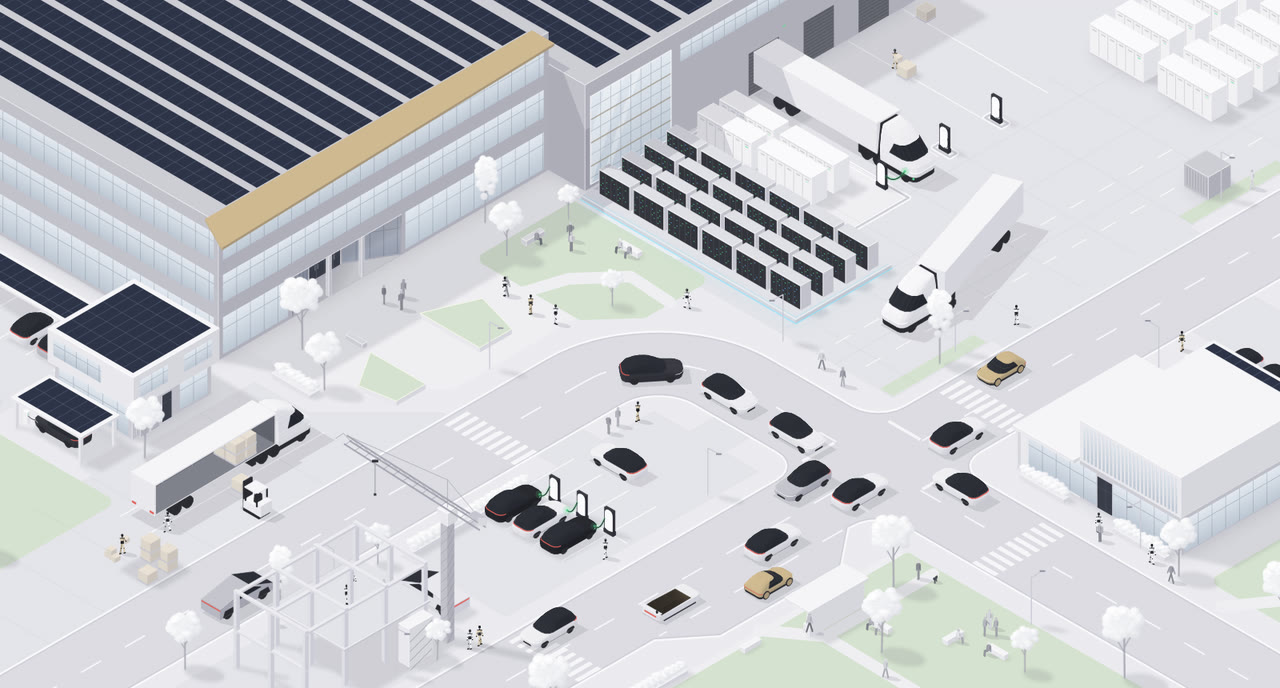
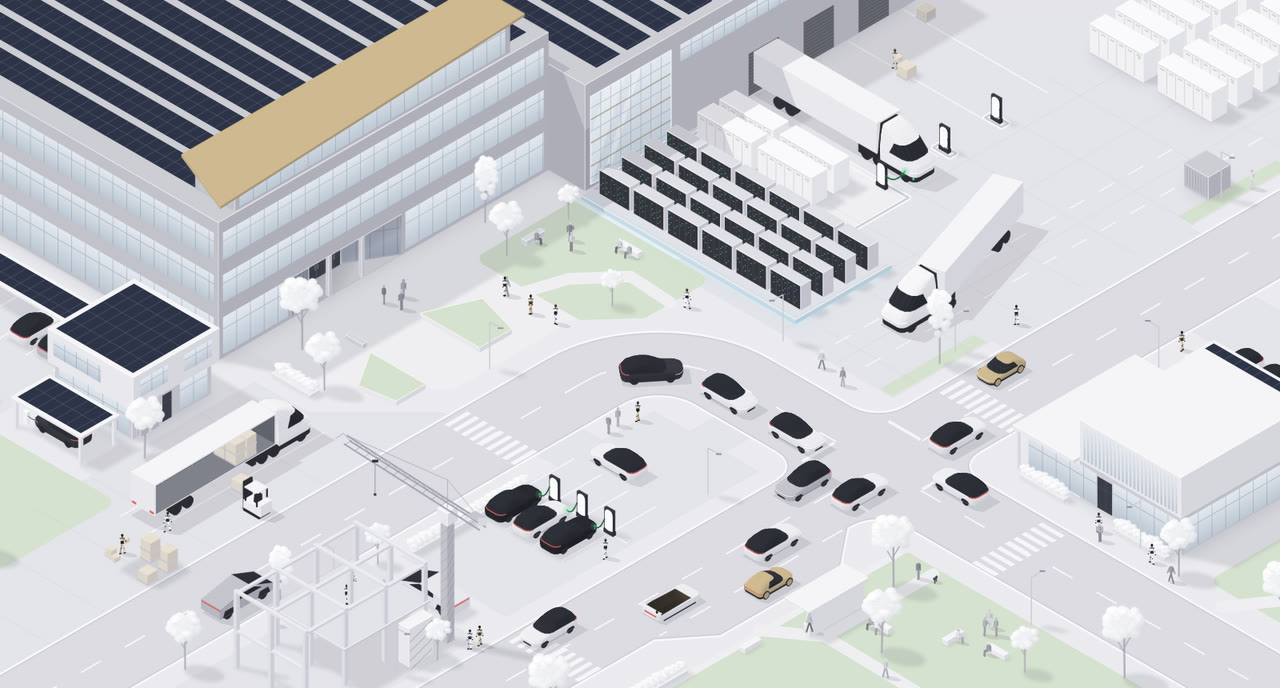
Give the lettering room, and put a rooftop bar under the bronze roof
Lettering: the letters nearly filled the 1.4 m panel band between the
window ribbons. With `isBranded` on, that band now widens along the
lettered stretch (u 5 to 24.5, on the mullion grid so the mullions still
line up): the ribbons above and below it step back 0.4 m there, giving a
2.2 m band with about half a metre clear above and below the letters. With
the lettering off, the facade's bands are as before.

Rooftop bar: at Giga Berlin the bronze overhang is the roof of a glass
rooftop bar. A glass pavilion now stands along the front edge of the
factory's roof (3.4 m tall, nearly flush with the facade, lit at night; it
casts no shadow on the ground), and the bronze roof sits on top of it,
overhanging the front and flaring to its sharp point at the plaza's corner
(world/plaza.ts).

Docs: docs/engine.md and the README's features list describe the rooftop
bar. README previews re-recorded.

Checks: typecheck, tests, check:components and the build pass. check:sim:
OK.

Claude-Session: https://claude.ai/code/session_012ySDiovrfsgi18gJzxxVM6

Changed region(s): [[0.125, 0.0, 0.4375, 0.3663]]

diff --git a/src/engine/world/plaza.ts b/src/engine/world/plaza.ts
@@ -1,17 +1,20 @@
-// The factory's front, after Giga Berlin's: a thin bronze roof canopy along the top of the facade,
-// flaring out to a sharp point at the plaza's corner, and two angular planters on the plaza with LED strips along
-// their top edges that glow warm at night. The planters stand clear of every walkway (and the walkers' offset), the
+// The factory's front, after Giga Berlin's: a glass rooftop bar along the front edge of the roof, under a thin bronze
+// roof that overhangs the facade and flares out to a sharp point at the plaza's corner, and two angular planters on
+// the plaza with LED strips along their top edges that glow warm at night. The planters stand clear of every walkway (and the walkers' offset), the
 // chatting group and the bench (walkways.ts, streetLife.ts).
 
 import { C } from '../core';
 import type { R } from '../draw';
+import { windowsX, windowsY } from '../details';
 import { MeshBuilder, drawMesh } from '../mesh';
 import type { Palette } from '../palette';
-import { FnItem } from '../statics';
+import { BoxItem, FnItem, type Static } from '../statics';
 
-/** the canopy's plan, counter-clockwise (x, y): over the roof's edge, out past the facade (x 26), widening to a point */
-const CANOPY = [[25.2, 37], [27.6, 37], [28.8, 74.4], [25.2, 72.6]];
-const CANOPY_Z = [13.0, 13.25];
+/** the rooftop bar on the factory's roof (z 13), set back a little from its facade (x 26): [x0, y0, x1, y1, height] */
+const BAR = [21.5, 40, 25.8, 70, 3.4];
+/** the bar's roof, counter-clockwise (x, y): over the whole bar, out past the facade, widening to a point at the corner */
+const CANOPY = [[21.2, 39.2], [26.6, 39.2], [28.2, 74], [21.2, 71.2]];
+const CANOPY_Z = [16.4, 16.65];
 /** the planters' plans, counter-clockwise (x, y), and their height */
 const PLANTERS = [
   [[33.0, 57.0], [35.0, 52.2], [39.5, 53.5], [39.5, 57.0]],
@@ -28,12 +31,19 @@ function prism(plan: number[][], z0: number, z1: number) {
   return m.build();
 }
 
-/** The canopy and the planters, as static items. */
-export function factoryFront(pal: Palette) {
+/** The rooftop bar and its roof, and the planters, as static items. */
+export function factoryFront(pal: Palette, edge: string) {
   const canopy = prism(CANOPY, CANOPY_Z[0], CANOPY_Z[1]);
   const [cx0, cy0, cx1, cy1] = bounds(CANOPY);
-  const items = [
-    // bronze all over, as at Giga Berlin
+  const [bx0, by0, bx1, by1, bh] = BAR;
+  // glass all round, lit at night; it stands on the roof, so it casts no shadow on the ground
+  const glass = [{ top: 0.15, bot: bh - 0.15, every: 1.5 }];
+  const items: Static[] = [
+    new BoxItem(bx0, by0, 13, bx1, by1, 13 + bh, pal.factory, { edge }, (r) => {
+      windowsX(r, pal, bx1, by0, by1, 13 + bh, glass);
+      windowsY(r, pal, bx0, bx1, by1, 13 + bh, glass);
+    }, false),
+    // the roof: bronze all over, as at Giga Berlin
     new FnItem(cx0, cy0, CANOPY_Z[0], cx1, cy1, CANOPY_Z[1], (r) => drawMesh(r, canopy, 0, 0, 0, 1, 0, [pal.gold, pal.gold])).still(),
   ];
   for (const plan of PLANTERS) {

diff --git a/src/engine/world/buildings.ts b/src/engine/world/buildings.ts
@@ -25,11 +25,18 @@ import { carMats } from '../palette';
  */
 export function factory(env: Env, edge: string, yard: TruckYard, branding: Branding) {
   const { pal, statics: S } = env;
-  const factoryBandsX: Band[] = [
-    { top: 1.2, bot: 3.8, every: 1.5 },
-    { top: 5.2, bot: 7.8, every: 1.5 },
-    // the ground floor, either side of the recessed entrance (entrance.ts)
-    { top: 9.2, bot: 12.7, every: 1.5, spans: [[0.5, 7.6], [20.4, 35.5]] },
+  // the ground floor, either side of the recessed entrance (entrance.ts)
+  const groundFloor: Band = { top: 9.2, bot: 12.7, every: 1.5, spans: [[0.5, 7.6], [20.4, 35.5]] };
+  const factoryBandsX: Band[] = [{ top: 1.2, bot: 3.8, every: 1.5 }, { top: 5.2, bot: 7.8, every: 1.5 }, groundFloor];
+  // with the lettering on, the panel band it sits on widens along the lettered stretch (u 5 to 24.5, on the mullion
+  // grid): the window ribbons above and below it step back 0.4 m there, so the letters have room above and below
+  const sides = [[0.5, 5], [24.5, 35.5]], lettered = [[5, 24.5]];
+  const letteredBandsX: Band[] = [
+    { top: 1.2, bot: 3.8, every: 1.5, spans: sides },
+    { top: 1.2, bot: 3.4, every: 1.5, spans: lettered },
+    { top: 5.2, bot: 7.8, every: 1.5, spans: sides },
+    { top: 5.6, bot: 7.8, every: 1.5, spans: lettered },
+    groundFloor,
   ];
   const factoryBandsY: Band[] = [
     { top: 1.2, bot: 3.8, every: 1.5, spans: [[0.5, 65.5]] },
@@ -38,15 +45,15 @@ export function factory(env: Env, edge: string, yard: TruckYard, branding: Brand
   ];
   S.push(
     new BoxItem(-40, 36, 0, 26, 72, 13, pal.factory, { edge }, (r) => {
-      windowsX(r, pal, 26, 36, 72, 13, factoryBandsX);
+      windowsX(r, pal, 26, 36, 72, 13, branding.isOn ? letteredBandsX : factoryBandsX);
       windowsY(r, pal, -40, 26, 72, 13, factoryBandsY);
       solarRoof(r, pal, -40, 36, 26, 72, 13, 1.2, 2.6);
       drawEntrance(r, pal, edge);
-      // the opt-in lettering on the panel band over the ribbon window above the entrance (u 8 to 20 on this face)
+      // the opt-in lettering, centred on the entrance (u 8 to 20 on this face) and in its widened panel band (3.4 to 5.6)
       if (branding.isOn) onFaceX(r, 26, 36, 72, 13, (ctx) => drawLettering(r, pal, ctx, 14, 3.9));
     }),
   );
-  S.push(...entrancePillars(pal, edge), ...factoryFront(pal));
+  S.push(...entrancePillars(pal, edge), ...factoryFront(pal, edge));
 
   // dock wing with roll-up doors and a tall atrium window above the compute platform
   const dockDoors = [...yard.docks.map((d) => d.y), yard.bay.y];

diff --git a/docs/engine.md b/docs/engine.md
@@ -35,14 +35,14 @@ Every file stays under 300 lines; split by responsibility when one grows past th
 
 - `world/` the layout. `world.ts` builds it all in a fixed order (everything draws from one seeded random stream, so
   moving a call changes the scene): `roads.ts` zones and through traffic, `buildings.ts` the factory (with
-  `plaza.ts`, its Giga Berlin-style front: the bronze roof canopy and the plaza's LED-edged planters, and
-  `lettering.ts`, its opt-in lettering), dock wing, pavilion, home and construction site, `streetLife.ts` trees,
-  lamps, benches, the pocket park and people standing about, `walkways.ts` the walkway graph, `groundPlan.ts` the
-  cached ground layer, `chargers.ts` the yard's chargers (posts and glowing cable in `../charging.ts`),
-  `entrance.ts` the factory's main entrance (a V-shaped recess drawn as part of the face it is cut into, clipped to
-  the opening so it needs no sort item, and the pillars in its mouth), `outskirts.ts` what lies beyond the classic
-  frame for wide views (factory wing, staff car park, second compute platform, Megapack field, charging hub, staff
-  park).
+  `plaza.ts`, its Giga Berlin-style front: the glass rooftop bar under a bronze roof and the plaza's LED-edged
+  planters, and `lettering.ts`, its opt-in lettering), dock wing, pavilion, home and construction site,
+  `streetLife.ts` trees, lamps, benches, the pocket park and people standing about, `walkways.ts` the walkway graph,
+  `groundPlan.ts` the cached ground layer, `chargers.ts` the yard's chargers (posts and glowing cable in
+  `../charging.ts`), `entrance.ts` the factory's main entrance (a V-shaped recess drawn as part of the face it is
+  cut into, clipped to the opening so it needs no sort item, and the pillars in its mouth), `outskirts.ts` what lies
+  beyond the classic frame for wide views (factory wing, staff car park, second compute platform, Megapack field,
+  charging hub, staff park).
 - `blocks.ts` builders used in both: `rackPlatform` (server racks with the glowing edge) and `megapacks`;
   `details.ts` windows, glass, solar roofs.
 - `activities/` the scripted scenes, one per file (truck yard, loading bay, charging lot, robotaxi stop, crane, dog

diff --git a/README.md b/README.md
@@ -66,8 +66,8 @@ any other React setup.
   it, a tall glass atrium in the dock wing glows warm at night.
 - **The factory's front**: the ground floor steps back in a V under the storeys above, its glass walls angling in to
   a dark door at the tip, with two pillars in the mouth. Staff and robots come and go through it. As at Giga Berlin,
-  a thin bronze canopy runs along the top of the facade to a sharp point at the corner, and two angular planters on
-  the plaza have LED strips that glow warm at night.
+  a glass rooftop bar runs along the top of the facade under a thin bronze roof that overhangs it and flares to a
+  sharp point at the corner, and two angular planters on the plaza have LED strips that glow warm at night.
 - **Parks for the staff**: a pocket park on the corner by the plaza, a lawn beside the robotaxi stop and a bigger park
   east of the pavilion, with grass, paths, trees and benches where employees sit or stand together on their break.
 - **The roadster**: every 30 to 45 seconds a low roadster with gold-tinted glass comes along the avenue and hops. Four
